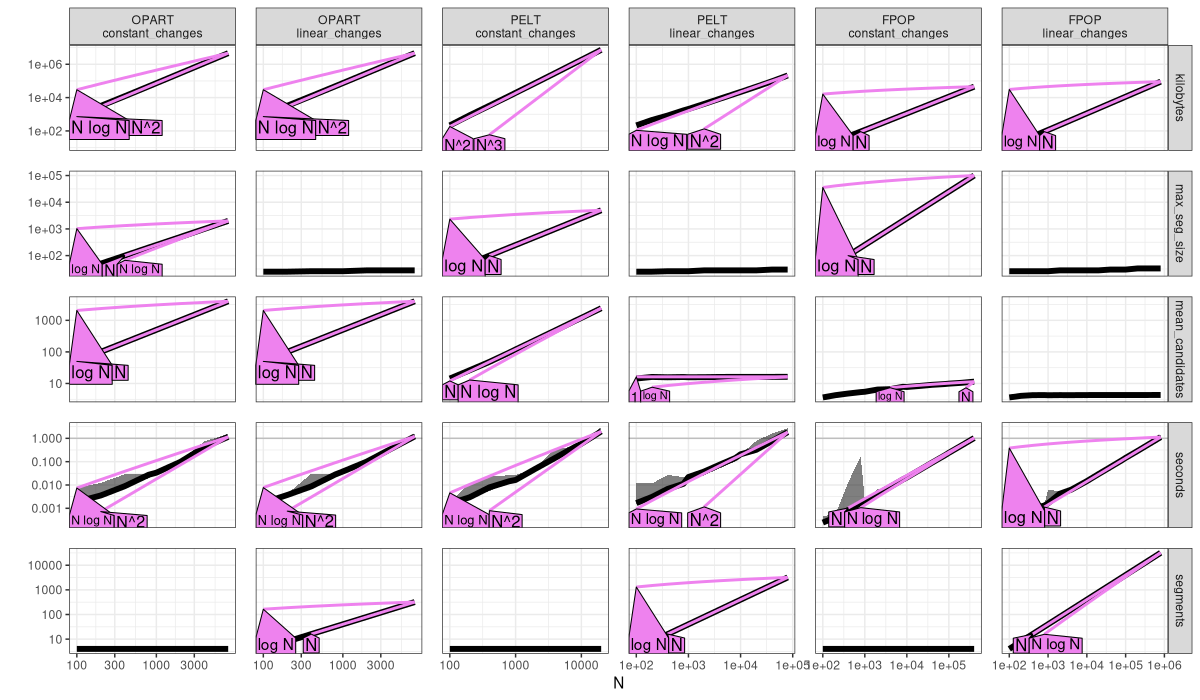
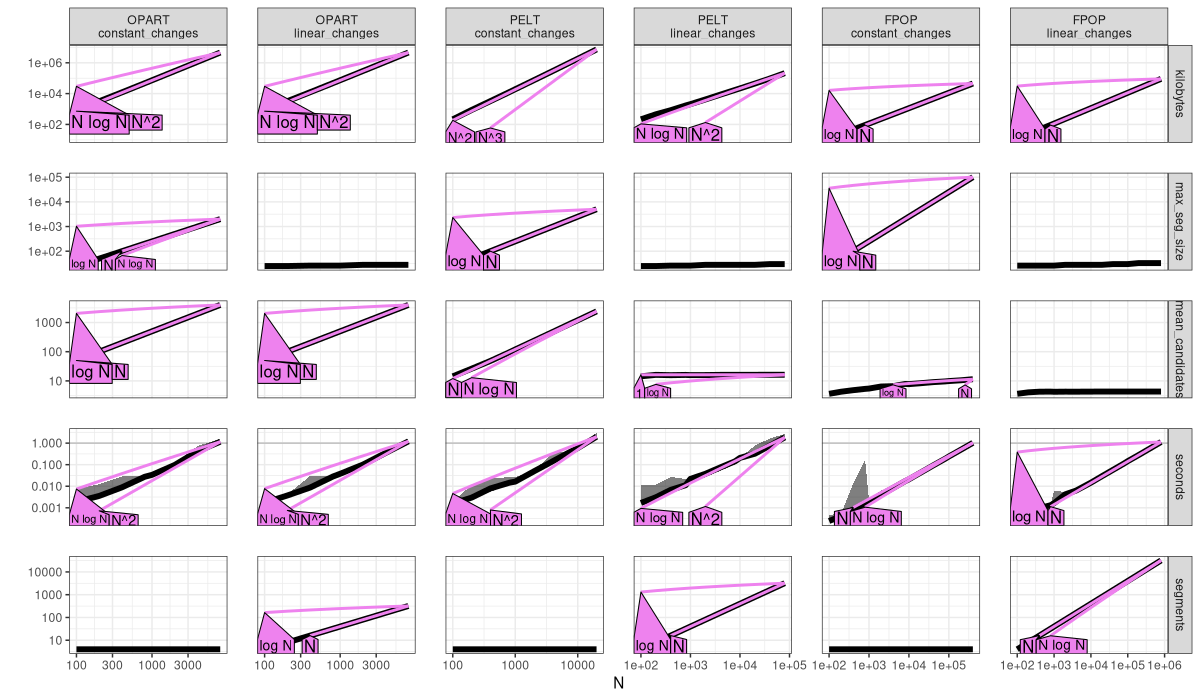
more space

diff --git a/_posts/2025-02-25-PELT-vs-FPOP.md b/_posts/2025-02-25-PELT-vs-FPOP.md
@@ -957,7 +957,7 @@ edit_expr <- function(DT)DT[
 edit_expr(refs_list$meas)
 edit_expr(refs_list$plot.ref)
 plot(refs_list)+
-  theme(panel.spacing=grid::unit(1,"lines"))
+  theme(panel.spacing=grid::unit(1.5,"lines"))
 ```
 
 ```
